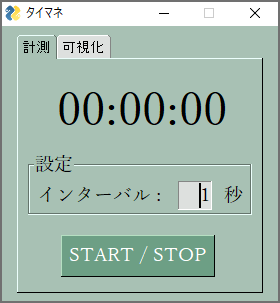
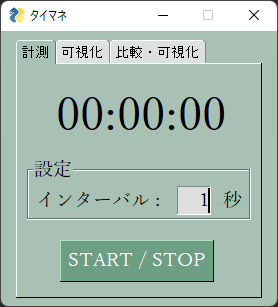
update README.md

Changed region(s): [[0.0, 0.0, 1.0, 1.0], [0.2014, 0.7723, 0.777, 0.9208], [0.2014, 0.297, 0.8058, 0.4455]]

diff --git a/README.md b/README.md
@@ -6,7 +6,7 @@
 
 ## ツールのダウンロード
 
-使用するには [こちら](https://github.com/masachika-kamada/time-manage/releases/tag/v1.0.0) のリリースページから実行ファイル (timane.exe) をダウンロードしてください<br>
+使用するには [こちら](https://github.com/masachika-kamada/time-manage/releases) のリリースページから実行ファイル (timane.exe) をダウンロードしてください<br>
 ※メモリが貧弱な場合、timane.zip をダウンロード、展開し、フォルダ内の timane.exe を実行してください
 
 ## 使い方
@@ -34,3 +34,13 @@
 2. Browse ボタンを押して、可視化する CSV ファイルを選択します (timane_csvdata フォルダ内の CSV ファイルを選択してください)
 
 3. 可視化するデータとその形式をボタンで選択すると、CSV ファイルに保存した作業の記録を可視化できます
+
+### 比較・可視化
+
+1. timane.exeを起動し、「比較・可視化」のタブを選択すると、以下の画面が表示されます
+
+![](./images/compare.png)
+
+2. Browse ボタンを押して、可視化する 2 種類の CSV ファイルを選択します
+
+3. 可視化するデータをボタンで選択すると、2 つのウィンドウが立ち上がり CSV ファイルに保存した作業の記録を比較できます
